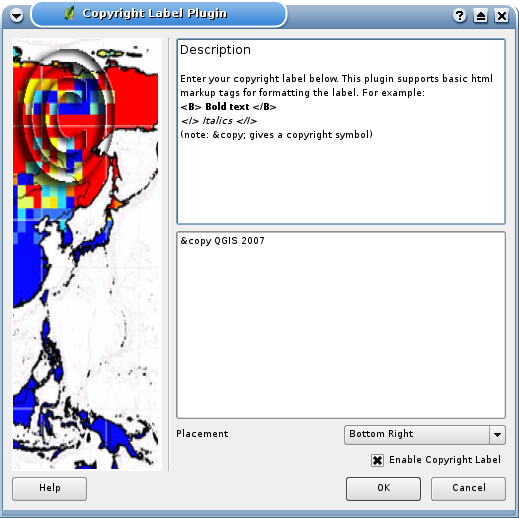
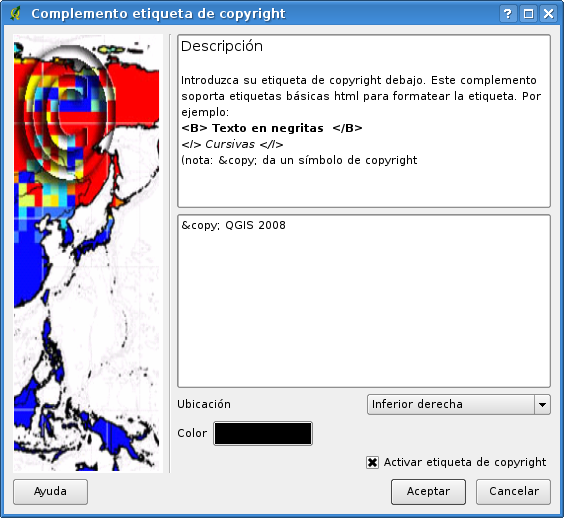
plugins_decorations translation into Spanish with screenshots
git-svn-id: http://svn.osgeo.org/qgis@8159 c8812cc2-4d05-0410-92ff-de0c093fc19c

diff --git a/docs/branches/0.9.1/spanish/user_guide/plugins_decorations.tex b/docs/branches/0.9.1/spanish/user_guide/plugins_decorations.tex
@@ -1,85 +1,71 @@
-\subsection{Using the Decorations Plugins}
+\subsection{Usar los complementos decorativos}
 
-The ``Decoration'' plugins include the following:
+Los complementos ``decorativos'' incluyen lo siguiente:
 
 \begin{itemize}
-\item Copyright Label Plugin
-\item North Arrow Plugin
-\item Scale Bar Plugin
+\item Complemento etiqueta de copyright.
+\item Complemento flecha de Norte.
+\item Complemento barra de escala.
 \end{itemize}
  
-These ``decorate'' the map by adding cartographic elements. 
+``Decoran'' el mapa añadiendo elementos cartográficos.
 
-\subsubsection{Copyright Label Plugin}
+\subsubsection{Complemento etiqueta de copyright}
 
 \begin{figure}[ht]
    \begin{center}
-   \caption{Copyright Plugin}\label{fig:copyright}\smallskip
+   \caption{Complemento de copyright}\label{fig:copyright}\smallskip
    \includegraphics[clip=true, width=8cm]{copyright}
 \end{center}  
 \end{figure}
 
-The title of this plugin is a bit misleading - you can add any random text to the map.
+El título de este complemento puede dar lugar a confusión, ya que puede añadir cualquier texto aleatorio al mapa.
 
 \begin{enumerate}
-\item Make sure the plugin is loaded
-\item Click on the \textsl{Copyright Label} tool on the Plugins toolbar
-\item Enter the text you want to place on the map. You can use HTML as
-  shown in the example
-\item Choose the placement of the label from the drop-down box
-\item Make sure the ``Enable Copyright Label'' checkbox is checked
-\item Click \textsl{OK} 
+\item Asegúrese de que el complemento está cargado.
+\item Pulse en la herramienta \textsl{Etiqueta de Copyright} en la barra de herramientas de complementos.
+\item Introduzca el texto que desee colocar en el mapa. Puede usar HTML como en el ejemplo mostrado.
+\item Seleccione el emplazamiento de la etiqueta en la casilla desplegable.
+\item Asegúrese de que la casilla de verificación ``Activar etiqueta de copyright'' está marcada.
+\item Pulse \textsl{Aceptar}
 \end{enumerate}
 
-In the example above, the first line is in bold, the second (created using
-\textless br\textgreater) contains a copyright symbol, followed by our company name in
-italics.
+En el ejemplo anterior, la primera línea está en negrita, la segunda (creada usando \textless br\textgreater) contiene un símbolo de copyright, seguido por el nombre de nuestra compañía en cursiva.
 
-\subsubsection{North Arrow Plugin}
+\subsubsection{Complemento flecha de Norte}
 
-The North Arrow plugin places a simple north arrow on the map canvas. At
-present there is only one style available. You can adjust the angle of the
-arrow or let QGIS set the direction automatically. If you choose to let
-QGIS determine the direction, it makes its best guess as to how the arrow
-should be oriented.
+El complemento flecha de Norte coloca una sencilla flecha de Norte sobre la vista del mapa. Actualmente sólo hay un estilo disponible. Puede ajustar el ángulo de la flecha o dejar que QGIS establezca la dirección automáticamente. Si elige dejar que QGIS determine la dirección, averiguará lo mejor posible cómo se debe orientar la flecha.
 
-For placement of the arrow you have four options, corresponding to the four 
-corners of the map canvas.
+En cuanto a la ubicación de la flecha, tiene cuatro opciones, correspondientes a las cuatro esquinas de la vista del mapa.
 
 \begin{figure}[ht]
    \begin{center}
-   \caption{North Arrow Plugin}\label{fig:north_arrow}\smallskip
+   \caption{Complemento flecha de Norte}\label{fig:north_arrow}\smallskip
    \includegraphics[clip=true, width=8cm]{north_arrow}
 \end{center}  
 \end{figure}
 
-\subsubsection{Scale Bar Plugin}
-The Scale Bar plugin adds a simple scale bar to the map canvas. You
-control the style and placement, as well as the labeling of the bar. 
+\subsubsection{Complemento barra de escala}
+El complemento barra de escala añade una barra de escala sencilla a la vista del mapa. Puede controlar el estilo y la ubicación, así como el etiquetado de la barra.
 
-QGIS only supports displaying the scale in the same units as your map frame. So
-if the units of your layers are in meters, you can't create a scale bar in
-feet. Likewise if you are using decimal degrees, you can't create a scale
-bar to display distance in meters.
+QGIS sólo puede mostrar la escala en las mismas unidades que tenga el mapa. Por tanto, si sus capas están en metros no puede crear una barra de escala en pies. Del mismo modo, si está usando grados decimales no puede crear una barra de escala para mostrar las distancias en metros.
 
-To add a scale bar:
+Para añadir una barra de escala:
 
 \begin{enumerate}
-\item Open the plugin dialog by clicking on the \textsl{Scale Bar} tool
-  on the Plugins toolbar
-\item Choose the placement from the drop-down list
-\item Choose the style
-\item Select the color for the bar, or use the default black color
-\item Set the size of the bar and its label
-\item Make sure the ``Enable scale bar'' checkbox is checked
-\item Optionally choose to automatically snap to a round number when the
-  canvas is resized
-\item Click \textsl{OK} 
+\item Abra el diálogo del complemento pulsando en la herramienta \textsl{Barra de escala} en la barra de herramientas de complementos.
+\item Seleccione la ubicación en la lista desplegable.
+\item Seleccione el estilo.
+\item Seleccione el color de la barra o use el negro predeterminado.
+\item Establezca el tamaño de la barra y su etiqueta.
+\item Asegúrese de que la casilla de verificación ``Activar barra de escala'' está marcada.
+\item Opcionalmente puede elegir redondear a un número exacto cuando se redimensiona la vista del mapa.
+\item Pulse \textsl{Aceptar} 
 \end{enumerate} 
 
 \begin{figure}[ht]
    \begin{center}
-   \caption{Scale Bar Plugin}\label{fig:scale_bar}\smallskip
+   \caption{Complemento barra de escala}\label{fig:scale_bar}\smallskip
    \includegraphics[clip=true, width=8cm]{scale_bar}
 \end{center}  
 \end{figure}
